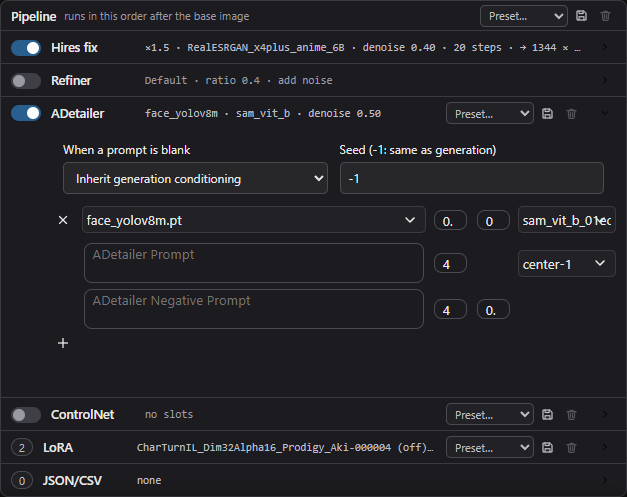
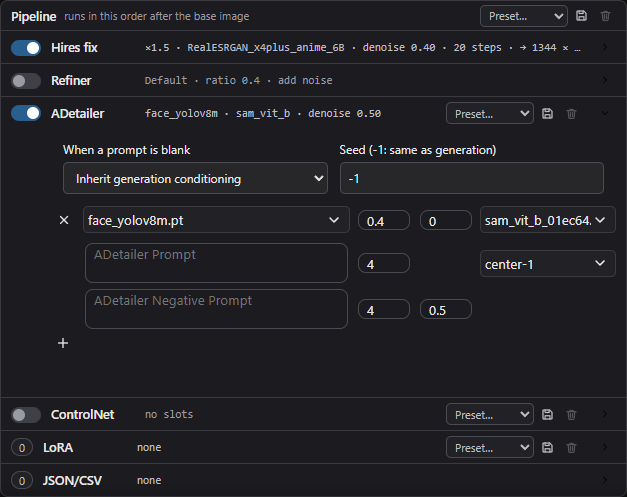
Spell suggestions at the caret, no stop at startup without a thumbs pack, overlay colors under the CSP
- Spell check: Chromium names a misspelling only when it is the selection, and a
  right-click on the spot where the caret already is does not select it, so clicking
  into a misspelled word and right-clicking it showed no suggestions. The menu selects
  the word under the caret for the spellchecker and gives the caret back when the word
  is spelled right; the selection entries (move / copy selection) still see a caret.
- Startup: a character thumbs pack chosen in the settings but missing from data/
  showed an error box before any window and the app quit. The pack is downloaded
  first, and when it cannot be had (offline, an unknown name) the app starts with
  waiIllustriousSDXL_v160.
- Overlay: [COPY_URL] and [COPY_CUSTOM] wrote style="" attributes, which the page's
  CSP drops (nothing sends these tags today). They become [url=] and [color=], which
  parseTaggedContent turns into classes, and a test keeps style="" out of the
  renderer scripts.
- Dropdowns: a long name stops before the arrow on the right instead of running
  under it.
- The ADetailer and ControlNet README screenshots are taken again: every number shows
  in full and the two ControlNet images sit side by side.
- The prose-student E2E test and the distill history script point at the wai-stack's
  new place.

diff --git a/scripts/renderer/customOverlay.js b/scripts/renderer/customOverlay.js
@@ -774,6 +774,15 @@ function createLoadingOverlay(loadingMessage, elapsedTimePrefix, elapsedTimeSuff
     return overlay;
 }
 
+// [COPY_URL] and [COPY_CUSTOM=color] become [url=] and [color=], which parseTaggedContent turns into
+// classes: the page's CSP drops inline style attributes
+export function overlayMarkup(message) {
+    return parseTaggedContent(message
+        .replaceAll(/\[COPY_URL\](https?:\/\/\S+?)\[\/COPY_URL\]/g, '[url=$1]$1[/url]')
+        .replaceAll(/\[COPY_CUSTOM(?:=(#[0-9A-Fa-f]{6}|[a-zA-Z]+))?\](.+?)\[\/COPY_CUSTOM\]/g,
+            (match, color, text) => `[color=${color || '#ffffff'}]${text}[/color]`));
+}
+
 // eslint-disable-next-line sonarjs/cognitive-complexity
 function createCustomOverlay(
     image, 
@@ -797,19 +806,7 @@ function createCustomOverlay(
     
     const hasImages = images.length > 0;
 
-    const processedMessage = parseTaggedContent(displayMessage)
-        .replaceAll('\n', '<br>')
-        .replaceAll(
-            /\[COPY_URL\](https?:\/\/[^\s]+)\[\/COPY_URL\]/g,
-            '<a href="$1" target="_blank" style="color: #1e90ff; text-decoration: underline;">$1</a>'
-        )
-        .replaceAll(
-            /\[COPY_CUSTOM(?:=(#[0-9A-Fa-f]{6}|[a-zA-Z]+))?\](.+?)\[\/COPY_CUSTOM\]/g,
-            (match, color, text) => {
-                const colorStyle = color || '#ffffff';
-                return `<span style="color: ${colorStyle}">${text}</span>`;
-            }
-        );
+    const processedMessage = overlayMarkup(displayMessage);
 
     const uniqueId = `cg-custom-overlay-${++customOverlayCounter}`;
     const sizeStorageKey = `customOverlaySize-${group}`;
@@ -1030,18 +1027,7 @@ function createCustomOverlay(
                 else overlay.remove();
             },
             setText: (message) => {
-                textDiv.innerHTML = parseTaggedContent(message).replaceAll('\n', '<br>')
-                .replaceAll(
-                    /\[COPY_URL\](https?:\/\/[^\s]+)\[\/COPY_URL\]/g,
-                    '<a href="$1" target="_blank" style="color: #1e90ff; text-decoration: underline;">$1</a>'
-                )
-                .replaceAll(
-                    /\[COPY_CUSTOM(?:=(#[0-9A-Fa-f]{6}|[a-zA-Z]+))?\](.+?)\[\/COPY_CUSTOM\]/g,
-                    (match, color, text) => {
-                        const colorStyle = color || '#ffffff';
-                        return `<span style="color: ${colorStyle}">${text}</span>`;
-                    }
-                );
+                textDiv.innerHTML = overlayMarkup(message);
             }
         };
     }

diff --git a/scripts/main/cachedFiles.js b/scripts/main/cachedFiles.js
@@ -304,17 +304,40 @@ function getCharacterThumb(md5Chara) {
     return cachedCharacterThumb[md5Chara];
 }
 
+// setupDownloadFiles always fetches this pack; the others come on demand
+const DEFAULT_THUMB_PACK = 'waiIllustriousSDXL_v160';
+
+const thumbPackFiles = thumbSelect => [`${thumbSelect}_thumbs.json`, `${thumbSelect}_characters.csv`, `${thumbSelect}_tag_assist.json`];
+const hasThumbPack = thumbSelect => thumbPackFiles(thumbSelect).every(name => fs.existsSync(path.join(appPath, 'data', name)));
+
+async function downloadThumbPack(thumbSelect) {
+    try {
+        if (thumbSelect === `waiNSFWIllustrious_v120`) {
+            console.log(`${CAT}: Requesting download of waiNSFWIllustrious_v120 thumbs...`);
+            await requestDownloadOldThumbs();
+        } else if (thumbSelect === `waiANIMA_v10Base10`) {
+            console.log(`${CAT}: Requesting download of waiANIMA_v10Base10 thumbs...`);
+            await requestDownloadAnimaThumbs();
+        }
+    } catch (error) {
+        console.error(`${CAT}: ${thumbSelect} download failed: ${error.message}`);
+    }
+}
+
+// The pack the app can start with: the chosen one, downloaded first when it is not on disk, or the
+// default pack when it cannot be had (offline, unknown name), instead of an error box before any window.
+async function startupThumbPack(thumbSelect) {
+    if (!hasThumbPack(thumbSelect)) await downloadThumbPack(thumbSelect);
+    if (hasThumbPack(thumbSelect)) return thumbSelect;
+    console.warn(`${CAT}: ${thumbSelect} is not available, starting with ${DEFAULT_THUMB_PACK}`);
+    return DEFAULT_THUMB_PACK;
+}
+
 async function updateCharacterThumb(thumbSelect) {
     console.log(`${CAT}: Updating cached files for thumbnail selection: ${thumbSelect}`);
 
-    if (thumbSelect === `waiNSFWIllustrious_v120`) {
-        console.log(`${CAT}: Requesting download of waiNSFWIllustrious_v120 thumbs...`);
-        await requestDownloadOldThumbs();
-    } else if (thumbSelect === `waiANIMA_v10Base10`) {
-        console.log(`${CAT}: Requesting download of waiANIMA_v10Base10 thumbs...`);
-        await requestDownloadAnimaThumbs();
-    }
-    
+    await downloadThumbPack(thumbSelect);
+
     const temp_cachedCharacterThumb = {};
     const temp_cachedCharacter = {};
     const temp_cachedTagAssist = {};
@@ -342,6 +365,7 @@ async function updateCharacterThumb(thumbSelect) {
 }
 
 export {
+    startupThumbPack,
     setupCachedFiles,
     getCachedFiles,
     getCachedFilesWithoutThumb,

diff --git a/scripts/renderer/components/myRightClickMenu.js b/scripts/renderer/components/myRightClickMenu.js
@@ -18,6 +18,7 @@ function debounce(func, wait) {
 
 let menuBox = null;
 let currentSelectedText = '';
+let caretBeforeMenu = null;   // { element, at }: a caret the right-click turned into a word selection
 let currentMenuX = 0;
 let currentMenuY = 0;
 
@@ -51,6 +52,10 @@ function closeMenu() {
 }
 
 export function addSpellCheckSuggestions(suggestions, word) {
+    // no misspelling under the right-click: the word selected for Chromium gives the caret back
+    if (!word && caretBeforeMenu) caretBeforeMenu.element.setSelectionRange(caretBeforeMenu.at, caretBeforeMenu.at);
+    caretBeforeMenu = null;
+
     if (menuBox?.style.display === 'none') {
         // Menu is closed, ignoring spellcheck suggestions
         return;
@@ -303,6 +308,7 @@ export function setupRightClickMenu() {
 
         // update currentSelectedText (the main process answers with spellcheck suggestions)
         currentSelectedText = '';
+        caretBeforeMenu = null;
         if (isTextInput) {
             if (targetElement.selectionStart === targetElement.selectionEnd) {
                 // cursor word
@@ -314,6 +320,11 @@ export function setupRightClickMenu() {
                 while ((match = wordRegex.exec(text)) !== null) {
                     if (match.index <= cursorPos && cursorPos <= match.index + match[0].length) {
                         word = match[0];
+                        // Chromium names a misspelling only when it is the selection, and a right-click
+                        // on the caret itself does not select it; the word is selected here, and the
+                        // caret comes back when the answer has no misspelling
+                        targetElement.setSelectionRange(match.index, match.index + word.length);
+                        caretBeforeMenu = { element: targetElement, at: cursorPos };
                         break;
                     }
                 }
@@ -550,7 +561,8 @@ function countLabel(base, count) {
 
 function textareaSelection(scope) {
     if (!(scope instanceof HTMLTextAreaElement)) return [];
-    if (scope.selectionStart === scope.selectionEnd) return [];
+    // the word selected only for the spellchecker is still a caret to the menu
+    if (scope.selectionStart === scope.selectionEnd || caretBeforeMenu?.element === scope) return [];
     return splitPromptTokens(scope.value.slice(scope.selectionStart, scope.selectionEnd));
 }
 

diff --git a/main.js b/main.js
@@ -30,7 +30,7 @@ import { setupGenerateBackendComfyUI, sendToRenderer } from './scripts/main/gene
 import { stopPodSshSession } from './scripts/main/podSshTransport.js';
 import { registerProseStudent, stopProseStudent } from './scripts/main/proseStudent.js';
 import { setupGenerateBackendWebUI } from './scripts/main/generate_backend_webui.js';
-import { getCachedFiles, setupCachedFiles } from './scripts/main/cachedFiles.js';
+import { getCachedFiles, setupCachedFiles, startupThumbPack } from './scripts/main/cachedFiles.js';
 import { setupWildcardsHandlers } from './scripts/main/wildCards.js';
 import { setupTagger } from './scripts/main/imageTagger.js';
 
@@ -104,6 +104,7 @@ async function initializeApp() {
   
   setupModelList(SETTINGS);
   const downloadSuccess = await setupDownloadFiles();
+  SETTINGS.thumb_select = await startupThumbPack(SETTINGS.thumb_select);
   const cacheSuccess = setupCachedFiles(SETTINGS.thumb_select);
 
   // Ensure wildcards list are set up before tag auto-complete

diff --git a/html/theme.css b/html/theme.css
@@ -554,7 +554,8 @@ body {
 
 .mydropdown-input {
     width: 100%;
-    padding: 4px;
+    /* the right side is the arrow's (.mydropdown-arrow, right: 8px); a long name stops before it */
+    padding: 4px 24px 4px 4px;
     border: 1px solid var(--saa-border);
     border-radius: 5px;
     background: var(--saa-bg-control);
